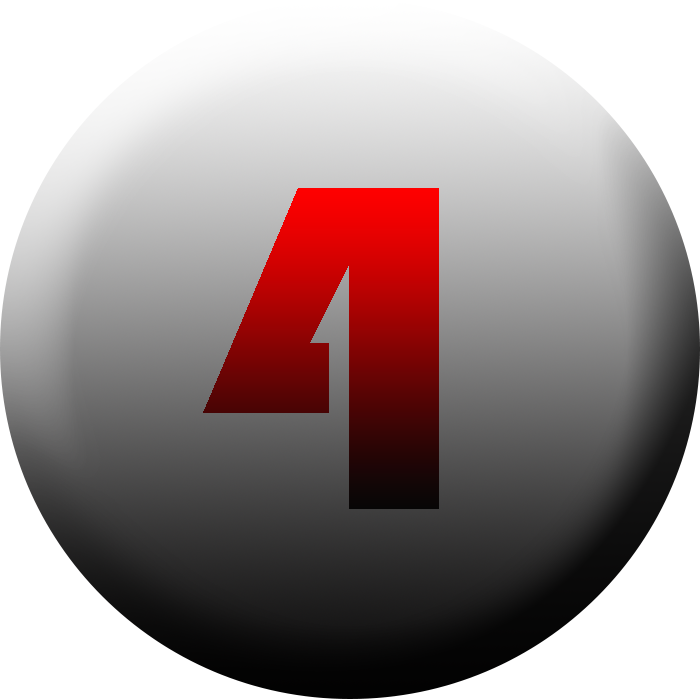
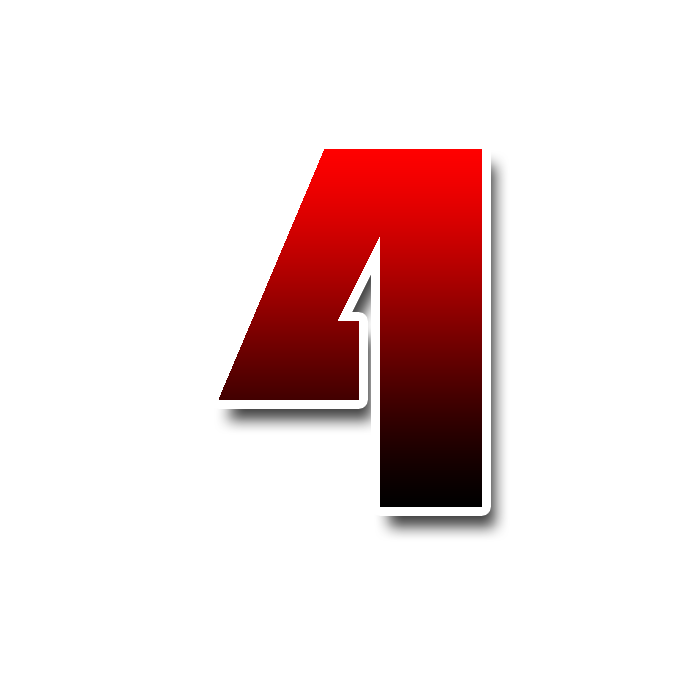
v4.0[BETA]

diff --git a/js/main.js b/js/main.js
@@ -333,7 +333,7 @@ function loadDesktop(){
     if(savedbackground){
         document.body.style.backgroundImage = localStorage.getItem('background');
     } else{
-        document.body.style.backgroundImage = 'url("images/2nd_birthday_script_os.png")';
+        document.body.style.backgroundImage = 'url("images/ScriptOSBackground.png")';
     }
 
     navbar.className = 'navbar';
@@ -345,11 +345,13 @@ function loadDesktop(){
     actionmenuicon.src = 'images/ScriptOS.png';
     actionmenuicon.setAttribute("onclick", "desktopbody.appendChild(actioncenter);");
     actionmenuicon.title = 'ActionMenu';
-    actionmenuicon.style = "width:50px; height:50px; z-index: 100; position:absolute; left:0;" ;
+    actionmenuicon.className = 'appicon';
+    actionmenuicon.style = "width:50px; height:50px; z-index: 100; border-radius: 15px; box-shadow: rgba(0,0,0,.5) 5px 5px 5px; position:absolute; left:0;" ;
     navbar.appendChild(actionmenuicon);
 
     var searchweb = document.createElement('input');
     searchweb.type = 'image';
+    searchweb.className = 'appicon';
     searchweb.src = 'https://www.tcwreckersales.com/wp-content/uploads/2017/01/search-icon-white.png';
     searchweb.setAttribute("onclick", "desktopbody.appendChild(websearch); desktopbody.appendChild(searchbutt); desktopbody.appendChild(exitbutt);");
     searchweb.title = 'Search the Web';
@@ -500,6 +502,15 @@ function signIn(){
     desktopbody.removeChild(loginbar);
     desktopbody.appendChild(navbar);
     desktopbody.appendChild(conmenu1);
+    if(savednav){
+        navbar.innerHTML = '';
+        navbar.innerHTML = localStorage.getItem("savednav");
+    }
+
+    if(savedesk){
+        desktopbody.innerHTML = '';
+        desktopbody.innerHTML = localStorage.getItem("savedesk");
+    }
 }
 
 var headertext = document.createElement('h2');
@@ -681,7 +692,6 @@ function scriptApp(appsname){
         var lowpowerswitch = document.createElement('span');
         var lowpowertxt = document.createElement('h2');
 
-
         darkmodel.title = "DarkMode";
         darkmodel.className = "switch";
         darkmodein.type = "checkbox";
@@ -737,7 +747,7 @@ function scriptApp(appsname){
         browsersett.src = 'images/Browser.png';
         shortcuts.src = 'images/Shortcuts.png';
         backgroundsettings.src = 'images/background icon.png';
-        about.src = 'images/Script OS logo 3.png';
+        about.src = 'images/ScriptOS.png';
         browsersett.style.width = '10%';
         shortcuts.style.width = '10%';
         about.style.width = '10%';
@@ -841,6 +851,14 @@ function scriptApp(appsname){
         backgroundtxt.innerHTML = "Background";
         app.appendChild(backgroundtxt);
         
+        var choice0 = document.createElement('input');
+        choice0.type = 'image';
+        choice0.src = 'images/ScriptOSBackground.png';
+        choice0.className = 'backgroundoption';
+        choice0.onclick = function () { document.body.style.backgroundImage = 'url(images/ScriptOSBackground.png)'; 
+        localStorage.setItem('background','url(images/ScriptOSBackground.png)'); };
+        app.appendChild(choice0);
+
         var choice1 = document.createElement('input');
         choice1.type = 'image';
         choice1.src = 'images/landscape.jpg';
@@ -1044,7 +1062,7 @@ function scriptApp(appsname){
         browserversion.innerHTML = objbrowserName + ": " + objfullVersion;
         scriptostxt.innerHTML = "ScriptOS " + scriptosversion;
         copyright.innerHTML = "© Tyler Ruotolo 2018-2020";
-        logoimg.src = 'images/tr-logo.png';
+        logoimg.src = 'images/ScriptOS.png';
         logoimg.style = 'width: 150px; height: 150px';
         app.appendChild(scriptostxt);
         app.appendChild(logoimg);
@@ -1179,13 +1197,12 @@ function scriptApp(appsname){
         commandinput.type = "text";
         commandoutput.style = 'height:75%; text-shadow: 2.5px 2.5px 2.5px black; width:100%; font-size: 65px; border-style: none; resize: none; color:white; background: rgba(0,0,0,0)';
         commandoutput.readOnly = true;
-        micbutton.type = 'image';
+        micbutton.type = 'button';
         micbutton.style.background = "rgba(0,0,0,.5)";
-        micbutton.src = 'https://png.pngtree.com/svg/20151101/76e68d5d8b.svg';
         sendbutt.innerHTML = "Send";
         sendbutt.className = "appchoice";
+        micbutton.value = "🎤"
         micbutton.onclick = function () {
-            micbutton.src = 'https://i.pinimg.com/originals/f6/65/6a/f6656aa6fdb6b8f905dea0bcc2d71dd8.gif';
             startDictation();
         };
         commandinput.onkeydown = function (e){
